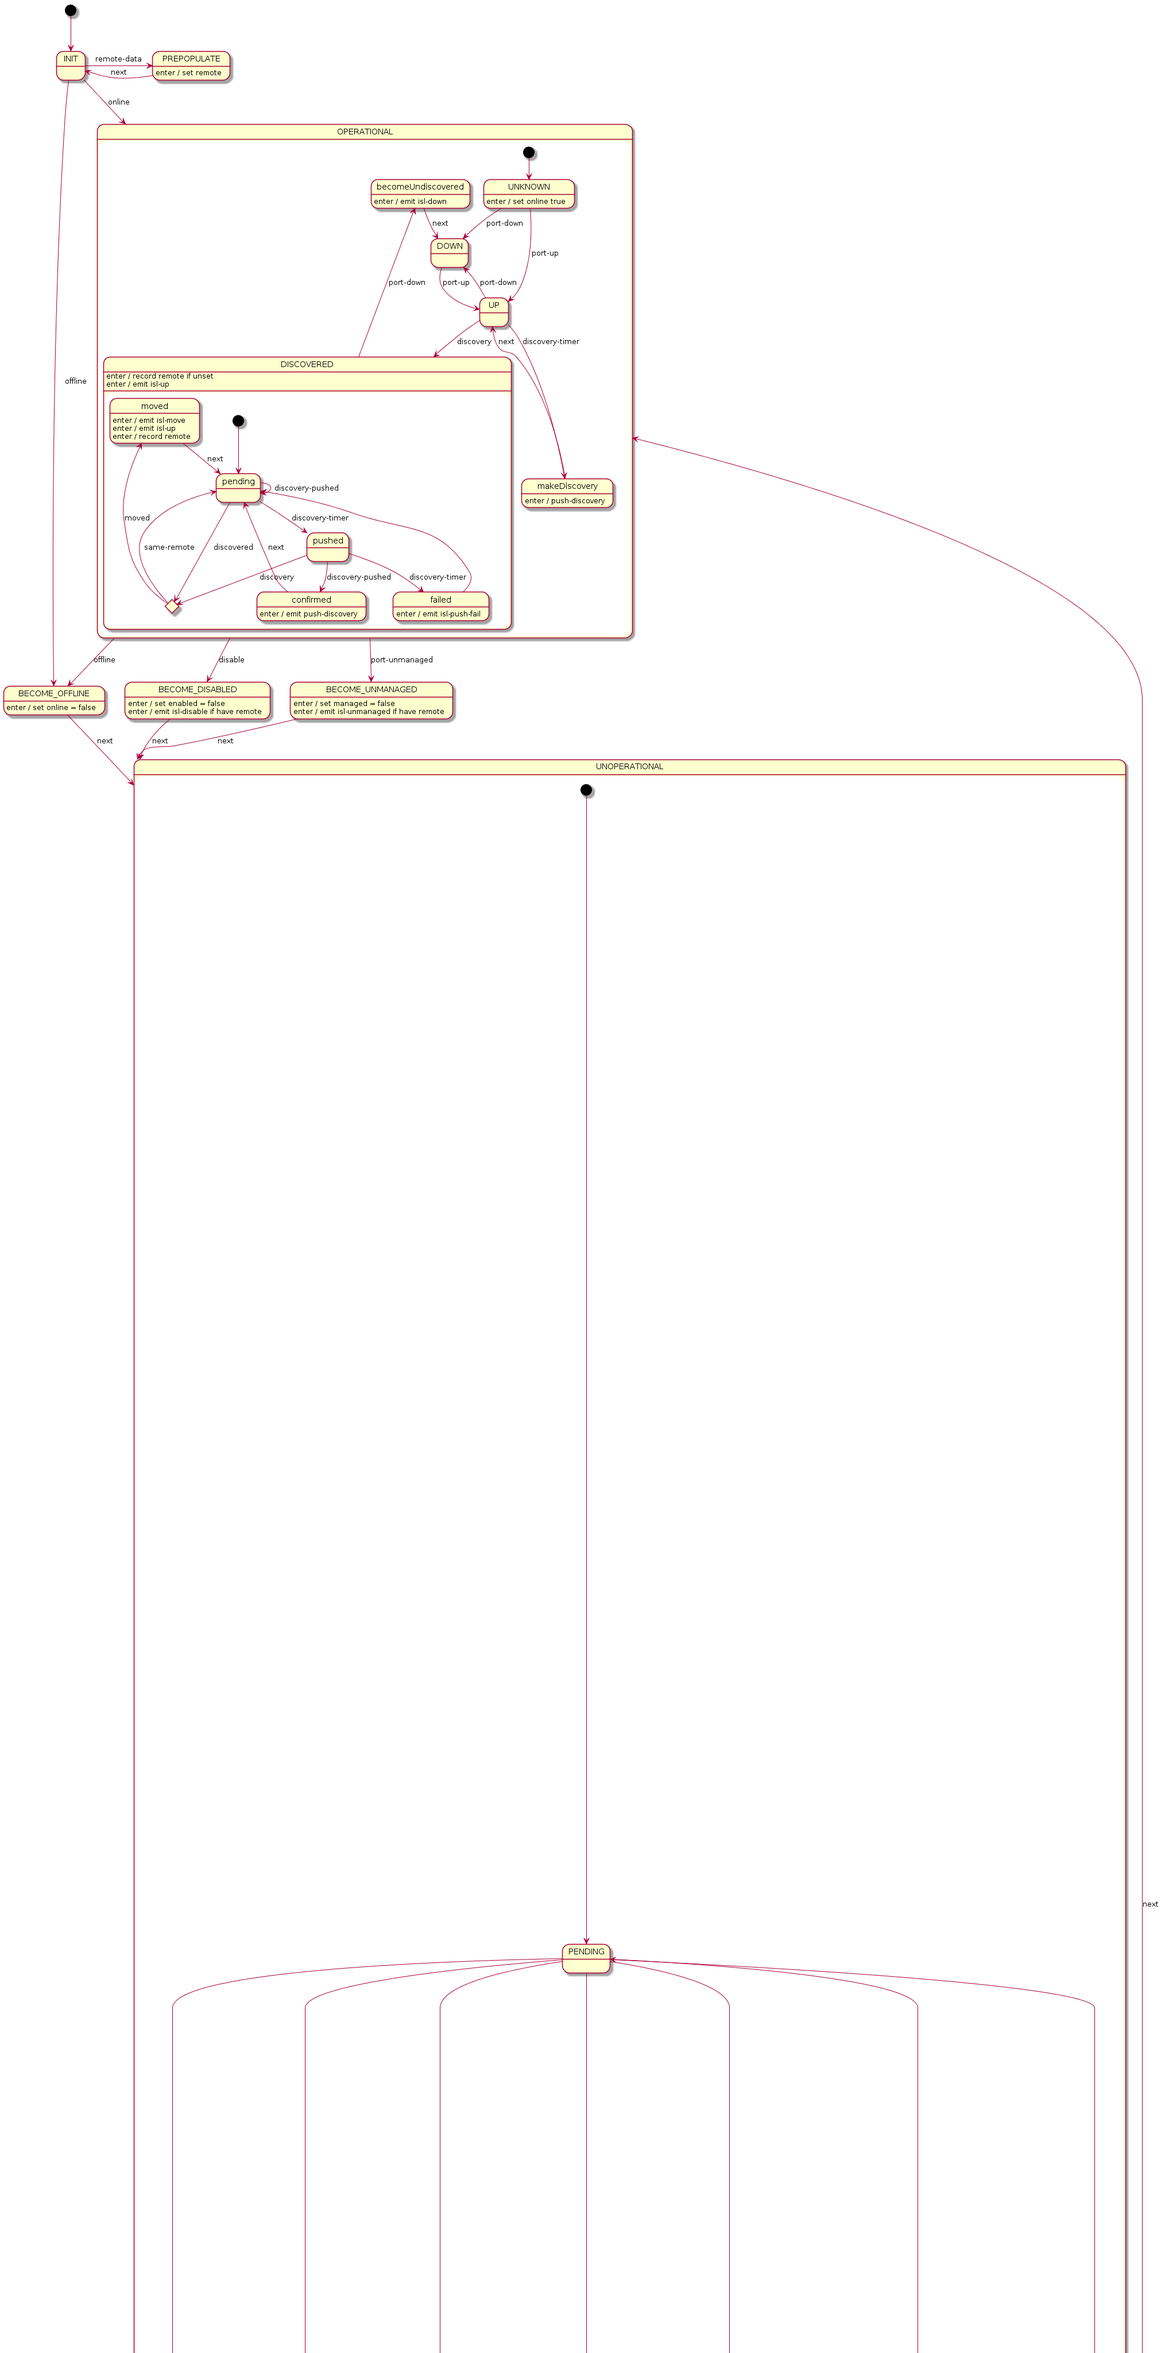
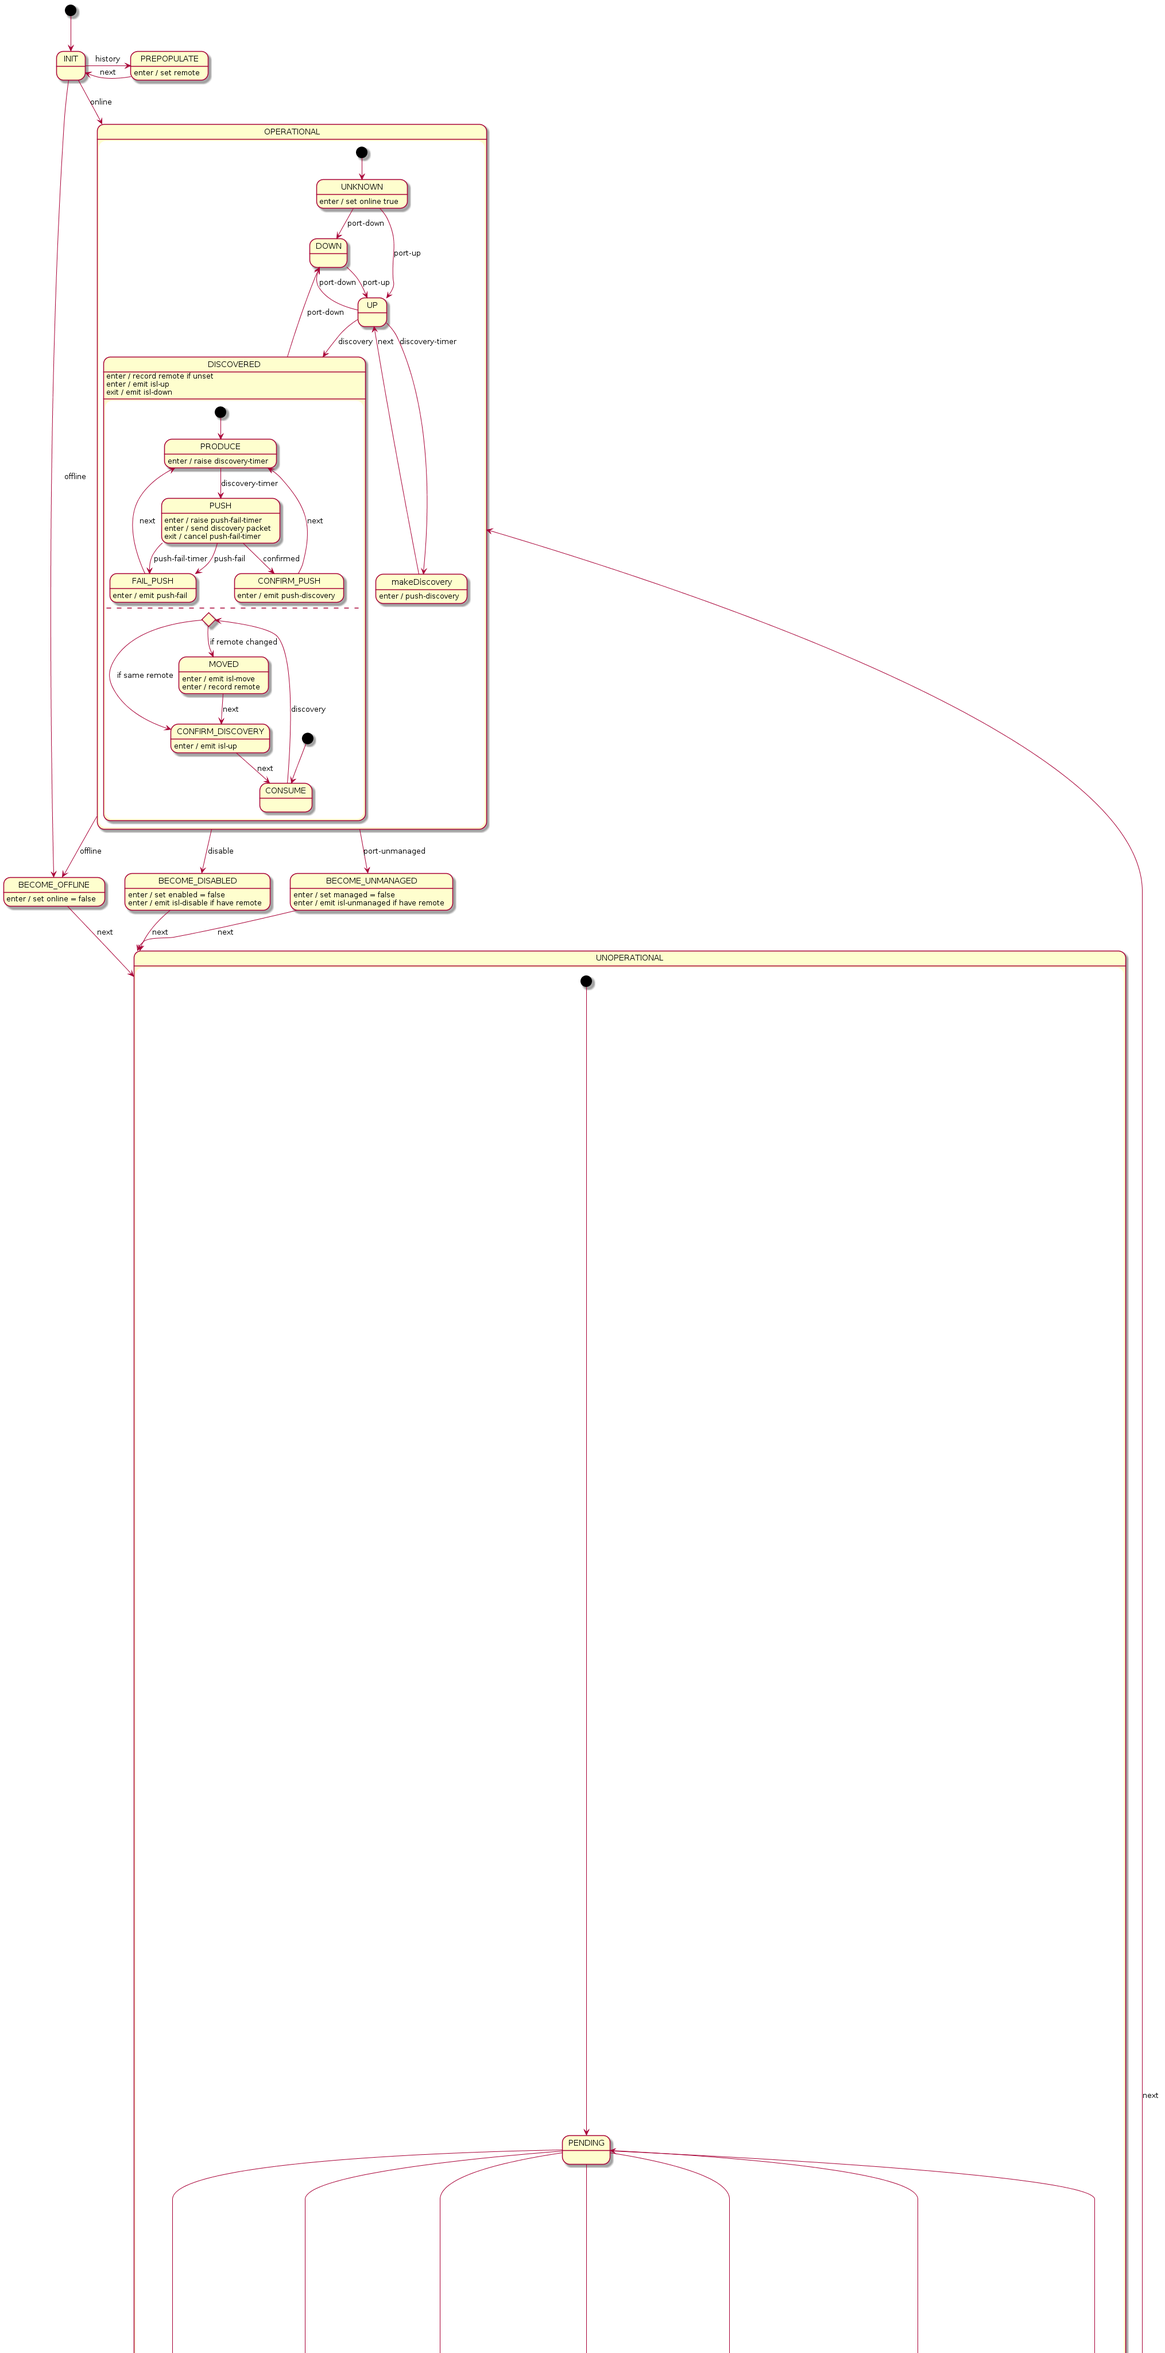
(fixup)

diff --git a/services/wfm/src/main/java/org/openkilda/wfm/topology/discovery/service/DiscoveryService.java b/services/wfm/src/main/java/org/openkilda/wfm/topology/discovery/service/DiscoveryService.java
@@ -29,6 +29,9 @@ import org.openkilda.persistence.repositories.RepositoryFactory;
 import org.openkilda.persistence.repositories.SwitchRepository;
 import org.openkilda.wfm.share.utils.FsmExecutor;
 import org.openkilda.wfm.topology.discovery.controller.PortFsm;
+import org.openkilda.wfm.topology.discovery.controller.PortFsmContext;
+import org.openkilda.wfm.topology.discovery.controller.PortFsmEvent;
+import org.openkilda.wfm.topology.discovery.controller.PortFsmState;
 import org.openkilda.wfm.topology.discovery.controller.SwitchFsm;
 import org.openkilda.wfm.topology.discovery.controller.SwitchFsmContext;
 import org.openkilda.wfm.topology.discovery.controller.SwitchFsmEvent;
@@ -54,8 +57,11 @@ public class DiscoveryService {
 
     private final Map<SwitchId, SwitchFsm> switchController = new HashMap<>();
     private final Map<Endpoint, PortFsm> portController = new HashMap<>();
+
     private final FsmExecutor<SwitchFsm, SwitchFsmState, SwitchFsmEvent, SwitchFsmContext> switchControllerExecutor
             = SwitchFsm.makeExecutor();
+    private final FsmExecutor<PortFsm, PortFsmState, PortFsmEvent, PortFsmContext> portControllerExecutor
+            = PortFsm.makeExecutor();
 
     public DiscoveryService(PersistenceManager persistenceManager) {
         this.persistenceManager = persistenceManager;
@@ -140,7 +146,7 @@ public class DiscoveryService {
         switchControllerExecutor.fire(switchFsm, SwitchFsmEvent.ISL_DISCOVERY, fsmContext);
     }
 
-    public void portEvent(PortInfoData payload, ISwitchReply outputAdapter) {
+    public void switchPortEvent(PortInfoData payload, ISwitchReply outputAdapter) {
         SwitchFsm switchFsm = locateSwitchFsm(payload.getSwitchId());
         SwitchFsmContext fsmContext = new SwitchFsmContext(outputAdapter);
         fsmContext.setPortNumber(payload.getPortNo());
@@ -176,10 +182,18 @@ public class DiscoveryService {
 
     // -- PortHandler --
 
-    // -- common --
+    public void portSetup(PortFacts portFacts, IPortReply outputAdapter) {
+        Endpoint endpoint = portFacts.getEndpoint();
+        PortFsm portFsm = PortFsm.create(endpoint);
 
-    public void timerTick(long tickTime) {
-        // TODO
+        Endpoint remote = portFacts.getRemote();
+        if (remote != null) {
+            PortFsmContext fsmContext = new PortFsmContext(outputAdapter);
+            fsmContext.setRemote(remote);
+            portControllerExecutor.fire(portFsm, PortFsmEvent.HISTORY, fsmContext);
+        }
+
+        portController.put(endpoint, portFsm);
     }
 
     // -- private --
@@ -204,9 +218,8 @@ public class DiscoveryService {
             }
 
             try {
-                NetworkEndpoint remote = new NetworkEndpoint(islEntry.getDestSwitch().getSwitchId(),
-                                                             islEntry.getDestPort());
-                swInit.addPort(new PortFacts(islEntry.getSrcPort()));
+                Endpoint remote = new Endpoint(islEntry.getDestSwitch().getSwitchId(), islEntry.getDestPort());
+                swInit.addPort(new PortFacts(new Endpoint(swInit.getSwitchId(), islEntry.getSrcPort()), remote));
             } catch (IllegalArgumentException e) {
                 log.error("Corrupter ISL relation endpoint(dest) - {}-{}",
                           islEntry.getDestSwitch().getSwitchId(), islEntry.getDestPort());
@@ -238,7 +251,7 @@ public class DiscoveryService {
     private SwitchFsm locateSwitchFsm(SwitchId datapath) {
         SwitchFsm switchFsm = switchController.get(datapath);
         if (switchFsm == null) {
-            throw new IllegalStateException(String.format("Switch FSM not found (%s).", datapath);
+            throw new IllegalStateException(String.format("Switch FSM not found (%s).", datapath));
         }
         return switchFsm;
     }

diff --git a/services/wfm/src/main/java/org/openkilda/wfm/topology/discovery/bolt/PortHandler.java b/services/wfm/src/main/java/org/openkilda/wfm/topology/discovery/bolt/PortHandler.java
@@ -20,7 +20,9 @@ import org.openkilda.wfm.AbstractBolt;
 import org.openkilda.wfm.AbstractOutputAdapter;
 import org.openkilda.wfm.error.AbstractException;
 import org.openkilda.wfm.error.PipelineException;
+import org.openkilda.wfm.topology.discovery.model.Endpoint;
 import org.openkilda.wfm.topology.discovery.model.PortCommand;
+import org.openkilda.wfm.topology.discovery.model.PortSendDiscoveryCommand;
 import org.openkilda.wfm.topology.discovery.model.PostponedPortCommand;
 import org.openkilda.wfm.topology.discovery.service.DiscoveryService;
 import org.openkilda.wfm.topology.discovery.service.IPortReply;
@@ -37,6 +39,7 @@ public class PortHandler extends AbstractBolt {
 
     private final transient PersistenceManager persistenceManager;
 
+    private long lastTimeTick = 0;
     private transient DiscoveryService discoveryService;
     private transient List<PostponedPortCommand> postponedCommands;
 
@@ -57,23 +60,28 @@ public class PortHandler extends AbstractBolt {
     }
 
     private void handleMonotonicTick(Tuple input) throws PipelineException {
-        long tickTime = pullValue(input, MonotonicTick.FIELD_ID_TIME_MILLIS, Long.class);
+        lastTimeTick = pullValue(input, MonotonicTick.FIELD_ID_TIME_MILLIS, Long.class);
         OutputAdapter outputAdapter = new OutputAdapter(this, input);
         for (Iterator<PostponedPortCommand> iterator = postponedCommands.iterator(); iterator.hasNext();) {
             PostponedPortCommand postponed = iterator.next();
-            if (postponed.isApplicable(tickTime)) {
+            if (postponed.isApplicable(lastTimeTick)) {
                 PortCommand command = postponed.getCommand();
                 command.apply(discoveryService, outputAdapter);
                 iterator.remove();
             }
         }
-        discoveryService.timerTick(tickTime);
+        discoveryService.timerTick(lastTimeTick);
     }
 
     private void handleSwitchCommand(Tuple input) throws PipelineException {
         PortCommand command = pullValue(input, SwitchHandler.FIELD_ID_PAYLOAD, PortCommand.class);
         OutputAdapter outputAdapter = new OutputAdapter(this, input);
         command.apply(discoveryService, outputAdapter);
+    }
+
+    private void schedulePostponed(PortCommand command, long delay) {
+        PostponedPortCommand postponed = new PostponedPortCommand(lastTimeTick + delay, command);
+        postponedCommands.add(postponed);
     }
 
     @Override
@@ -88,8 +96,16 @@ public class PortHandler extends AbstractBolt {
     }
 
     static class OutputAdapter extends AbstractOutputAdapter implements IPortReply {
+        private final PortHandler bolt;
+
         OutputAdapter(PortHandler owner, Tuple tuple) {
             super(owner, tuple);
+            bolt = owner;
+        }
+
+        @Override
+        public void scheduleDiscoverySend(Endpoint endpoint, long delay) {
+            bolt.schedulePostponed(new PortSendDiscoveryCommand(endpoint), delay);
         }
 
         // TODO

diff --git a/services/wfm/src/main/java/org/openkilda/wfm/topology/discovery/controller/SwitchFsm.java b/services/wfm/src/main/java/org/openkilda/wfm/topology/discovery/controller/SwitchFsm.java
@@ -19,6 +19,7 @@ import org.openkilda.messaging.model.SpeakerSwitchPortView;
 import org.openkilda.messaging.model.SpeakerSwitchView;
 import org.openkilda.model.SwitchId;
 import org.openkilda.wfm.share.utils.FsmExecutor;
+import org.openkilda.wfm.topology.discovery.model.Endpoint;
 import org.openkilda.wfm.topology.discovery.model.PortFacts;
 import org.openkilda.wfm.topology.discovery.model.PortFacts.LinkStatus;
 import org.openkilda.wfm.topology.discovery.model.SwitchInit;
@@ -42,7 +43,7 @@ public class SwitchFsm extends AbstractStateMachine<SwitchFsm, SwitchFsmState, S
 
     private final Map<Integer, PortFacts> portByNumber = new HashMap<>();
 
-    public static final StateMachineBuilder<SwitchFsm, SwitchFsmState, SwitchFsmEvent, SwitchFsmContext> builder;
+    private static final StateMachineBuilder<SwitchFsm, SwitchFsmState, SwitchFsmEvent, SwitchFsmContext> builder;
 
     static {
         builder = StateMachineBuilderFactory.create(
@@ -154,11 +155,11 @@ public class SwitchFsm extends AbstractStateMachine<SwitchFsm, SwitchFsmState, S
         for (SpeakerSwitchPortView port : initState.getPorts()) {
             removedPorts.remove(port.getNumber());
 
-            PortFacts actualPort = new PortFacts(port);
+            PortFacts actualPort = new PortFacts(switchId, port);
             PortFacts storedPort = portByNumber.get(port.getNumber());
             if (storedPort == null) {
                 // port added
-                portAdd(context, new PortFacts(port));
+                portAdd(context, actualPort);
                 continue;
             }
 
@@ -204,12 +205,12 @@ public class SwitchFsm extends AbstractStateMachine<SwitchFsm, SwitchFsmState, S
     }
 
     private void portAddEnter(SwitchFsmState from, SwitchFsmState to, SwitchFsmEvent event, SwitchFsmContext context) {
-        PortFacts port = new PortFacts(context.getPortNumber());
+        PortFacts port = new PortFacts(new Endpoint(switchId, context.getPortNumber()));
         portAdd(context, port);
     }
 
     private void portDelEnter(SwitchFsmState from, SwitchFsmState to, SwitchFsmEvent event, SwitchFsmContext context) {
-        PortFacts port = new PortFacts(context.getPortNumber());
+        PortFacts port = new PortFacts(new Endpoint(switchId, context.getPortNumber()));
         portDel(context, port);
     }
 

diff --git a/services/wfm/src/main/java/org/openkilda/wfm/topology/discovery/controller/PortFsm.java b/services/wfm/src/main/java/org/openkilda/wfm/topology/discovery/controller/PortFsm.java
@@ -16,8 +16,49 @@
 
 package org.openkilda.wfm.topology.discovery.controller;
 
+import org.openkilda.wfm.share.utils.FsmExecutor;
+import org.openkilda.wfm.topology.discovery.model.Endpoint;
+
+import org.squirrelframework.foundation.fsm.StateMachineBuilder;
+import org.squirrelframework.foundation.fsm.StateMachineBuilderFactory;
 import org.squirrelframework.foundation.fsm.impl.AbstractStateMachine;
 
 public class PortFsm extends AbstractStateMachine<PortFsm, PortFsmState, PortFsmEvent, PortFsmContext> {
+    private final Endpoint endpoint;
+    private Endpoint remote;
 
+    private boolean online = true;
+    private boolean enabled = true;
+    private boolean managed = true;
+
+    private static final StateMachineBuilder<PortFsm, PortFsmState, PortFsmEvent, PortFsmContext> builder;
+
+    static {
+        builder = StateMachineBuilderFactory.create(
+                PortFsm.class, PortFsmState.class, PortFsmEvent.class, PortFsmContext.class,
+                // extra parameters
+                Endpoint.class);
+
+        builder.transition().from(PortFsmState.INIT).to(PortFsmState.PREPOPULATE).on(PortFsmEvent.HISTORY);
+        builder.transition().from(PortFsmState.PREPOPULATE).to(PortFsmState.INIT).on(PortFsmEvent.NEXT);
+
+        builder.onEntry(PortFsmState.PREPOPULATE)
+                .callMethod("prepopulateEnter");
+    }
+
+    public static FsmExecutor<PortFsm, PortFsmState, PortFsmEvent, PortFsmContext> makeExecutor() {
+        return new FsmExecutor<>(PortFsmEvent.NEXT);
+    }
+
+    public static PortFsm create(Endpoint endpoint) {
+        return builder.newStateMachine(PortFsmState.INIT, endpoint);
+    }
+
+    public PortFsm(Endpoint endpoint) {
+        this.endpoint = endpoint;
+    }
+
+    private void prepopulateEnter(PortFsmState from, PortFsmState to, PortFsmState event, PortFsmContext context) {
+        remote = context.getRemote();
+    }
 }

diff --git a/services/wfm/src/main/java/org/openkilda/wfm/topology/discovery/model/PortFacts.java b/services/wfm/src/main/java/org/openkilda/wfm/topology/discovery/model/PortFacts.java
@@ -15,8 +15,8 @@
 
 package org.openkilda.wfm.topology.discovery.model;
 
-import org.openkilda.messaging.model.NetworkEndpoint;
 import org.openkilda.messaging.model.SpeakerSwitchPortView;
+import org.openkilda.model.SwitchId;
 
 import lombok.AllArgsConstructor;
 import lombok.Data;
@@ -26,18 +26,26 @@ import java.io.Serializable;
 @Data
 @AllArgsConstructor
 public class PortFacts implements Serializable {
-    private final int portNumber;
+    private final Endpoint endpoint;
 
     private LinkStatus linkStatus;
     private boolean disabled;
-    private NetworkEndpoint remote;
+    private Endpoint remote;
 
-    public PortFacts(int portNumber) {
-        this(portNumber, null, false, null);
+    public PortFacts(Endpoint endpoint) {
+        this(endpoint, null, false, null);
     }
 
-    public PortFacts(SpeakerSwitchPortView portView) {
-        this(portView.getNumber(), mapAdminStatus(portView.getState()), false, null);
+    public PortFacts(Endpoint endpoint, Endpoint remote) {
+        this(endpoint, null, false, remote);
+    }
+
+    public PortFacts(SwitchId switchId,  SpeakerSwitchPortView portView) {
+        this(new Endpoint(switchId, portView.getNumber()), mapAdminStatus(portView.getState()), false, null);
+    }
+
+    public int getPortNumber() {
+        return endpoint.getPortNumber();
     }
 
     private static LinkStatus mapAdminStatus(SpeakerSwitchPortView.State adminStatus) {

diff --git a/services/wfm/src/main/java/org/openkilda/wfm/topology/discovery/model/PortSendDiscoveryCommand.java b/services/wfm/src/main/java/org/openkilda/wfm/topology/discovery/model/PortSendDiscoveryCommand.java
@@ -18,16 +18,16 @@ package org.openkilda.wfm.topology.discovery.model;
 import org.openkilda.wfm.topology.discovery.service.DiscoveryService;
 import org.openkilda.wfm.topology.discovery.service.IPortReply;
 
-public class PortSetupCommand extends PortCommand {
-    private final PortFacts facts;
+public class PortSendDiscoveryCommand extends PortCommand {
+    private final Endpoint endpoint;
 
-    public PortSetupCommand(PortFacts facts) {
-        super(facts.getPortNumber());
-        this.facts = facts;
+    public PortSendDiscoveryCommand(Endpoint endpoint) {
+        super(endpoint.getPortNumber());
+        this.endpoint = endpoint;
     }
 
     @Override
     public void apply(DiscoveryService service, IPortReply output) {
-        service.portSetup(facts, output);
+        // TODO
     }
 }

diff --git a/services/wfm/src/main/java/org/openkilda/wfm/topology/discovery/model/Endpoint.java b/services/wfm/src/main/java/org/openkilda/wfm/topology/discovery/model/Endpoint.java
@@ -16,6 +16,7 @@
 package org.openkilda.wfm.topology.discovery.model;
 
 import org.openkilda.messaging.info.event.PathNode;
+import org.openkilda.messaging.model.NetworkEndpoint;
 import org.openkilda.model.SwitchId;
 
 import lombok.AllArgsConstructor;
@@ -31,6 +32,10 @@ public class Endpoint implements Serializable {
     private SwitchId datapath;
 
     private int portNumber;
+
+    public Endpoint(NetworkEndpoint networkEndpoint) {
+        this(networkEndpoint.getDatapath(), networkEndpoint.getPortNumber());
+    }
 
     public Endpoint(PathNode pathNode) {
         this(pathNode.getSwitchId(), pathNode.getPortNo());

diff --git a/services/wfm/src/main/java/org/openkilda/wfm/topology/discovery/bolt/SwitchHandler.java b/services/wfm/src/main/java/org/openkilda/wfm/topology/discovery/bolt/SwitchHandler.java
@@ -126,7 +126,7 @@ public class SwitchHandler extends AbstractBolt {
         } else if (event instanceof SwitchInfoData) {
             discoveryService.switchEvent((SwitchInfoData) event, outputAdapter);
         } else if (event instanceof PortInfoData) {
-            discoveryService.portEvent((PortInfoData) event, outputAdapter);
+            discoveryService.switchPortEvent((PortInfoData) event, outputAdapter);
         } else {
             unhandledInput(input);
         }

diff --git a/services/wfm/src/main/java/org/openkilda/wfm/topology/discovery/controller/PortFsmContext.java b/services/wfm/src/main/java/org/openkilda/wfm/topology/discovery/controller/PortFsmContext.java
@@ -15,5 +15,18 @@
 
 package org.openkilda.wfm.topology.discovery.controller;
 
+import org.openkilda.wfm.topology.discovery.model.Endpoint;
+import org.openkilda.wfm.topology.discovery.service.IPortReply;
+
+import lombok.Data;
+
+@Data
 public class PortFsmContext {
+    private final IPortReply output;
+
+    private Endpoint remote;
+
+    public PortFsmContext(IPortReply output) {
+        this.output = output;
+    }
 }

diff --git a/services/wfm/src/main/java/org/openkilda/wfm/topology/discovery/service/IPortReply.java b/services/wfm/src/main/java/org/openkilda/wfm/topology/discovery/service/IPortReply.java
@@ -15,6 +15,8 @@
 
 package org.openkilda.wfm.topology.discovery.service;
 
+import org.openkilda.wfm.topology.discovery.model.Endpoint;
+
 public interface IPortReply {
-    void scheduleDiscoverySend();
+    void scheduleDiscoverySend(Endpoint endpoint, long delay);
 }

diff --git a/services/wfm/src/main/java/org/openkilda/wfm/topology/discovery/controller/PortFsmState.java b/services/wfm/src/main/java/org/openkilda/wfm/topology/discovery/controller/PortFsmState.java
@@ -16,4 +16,7 @@
 package org.openkilda.wfm.topology.discovery.controller;
 
 public enum PortFsmState {
+    INIT,
+
+    PREPOPULATE
 }

diff --git a/services/wfm/src/main/java/org/openkilda/wfm/topology/discovery/controller/PortFsmEvent.java b/services/wfm/src/main/java/org/openkilda/wfm/topology/discovery/controller/PortFsmEvent.java
@@ -16,4 +16,7 @@
 package org.openkilda.wfm.topology.discovery.controller;
 
 public enum PortFsmEvent {
+    HISTORY,
+
+    NEXT
 }
